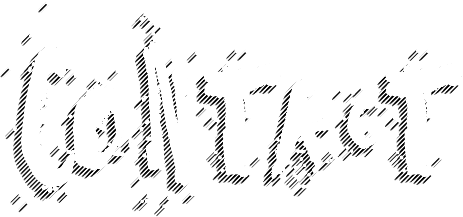
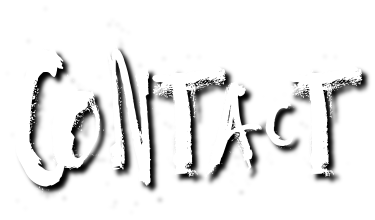
fixed layout on Welcolme page

diff --git a/src/Pages/Welcome.jsx b/src/Pages/Welcome.jsx
@@ -1,43 +1,43 @@
 import React from "react";
 import "../App.css";
 import { Link } from "react-router-dom";
-import useFitText from "use-fit-text";
+import { TypeAnimation } from "react-type-animation";
 
 
 const Welcome = () => {
 
-  const {fontSize, ref} = useFitText();
-
   return (
     <div className="App">
-  
-      <div className="d-flex justify-content-evenly vh-100">    
-          
-        <div className="col-5 mt-2">
-            <div className="d-flex align-items-center justify-content-center vh-100">
+      <div className="d-flex justify-content-evenly vh-100" style={{border:"2px solid red"}}>            
+        <div className="col-6 mt-3">
+            <div className="d-flex align-items-center justify-content-end vh-100 mx-5">
               <img src="static/me.png" className="img-fluid"  alt="pic_of_me" style={{height:"80vh"}}/>
             </div>
         </div>
 
-        <div className="col-7 d-flex flex-column justify-content-evenly mt-2" style={{ fontSize:"7vh"}}>
-          <div className="d-flex justify-content-start " style={{height:"30%", width:"50%"}}>
+        <div className="col-6 d-flex flex-column justify-content-between">
+          <div className="d-flex justify-content-start" >
             <div className="bubble bubble-bottom-left">
-                <p className="text-wrap" ref={ref} style={{ fontSize, height: "100%", width: "auto" }} >
-                  Hi there! Welcome to my Portfolio! I'm Aleksandra/Sasha, Software Engineer with background in math. Here I'm sharing with you my true passion - Web Development! I hope you enjoy
-                  getting to know me...                  
-                </p>             
+              <TypeAnimation                           
+                sequence={[
+                  `Hi there! Welcome to my Portfolio! I'm Aleksandra/Sasha, Software Engineer with background in math. Here I'm sharing with you my true passion - Web Development! I hope you enjoy getting to know me...`
+                ]}
+                cursor={false}
+                repeat={1}  
+                style={{ fontSize:"2.2vh"}}                                 
+                  />
+              </div>
             </div> 
-          </div>
-            
-        <div className="d-flex flex-wrap justify-content-around mx-5 align-self-center" style={{fontFamily:"Vtks Have a Nice Day", fontSize:"6vw", width:"70%"}}>
-          <Link to={"/about"} className="direct">About</Link>
-          <Link to={"/projects"} className="direct">Projects</Link>                  
-          <Link to={"/contact"} className="direct">Contact</Link>                   
-          <Link to={"/resume"} className="direct">Resume</Link>         
+ 
+        <div className="d-flex flex-column justify-content-evenly align-items-center mb-5" >
+          <Link to={"/about"} ><img id="nav"src="static/about.png" alt="contact" /></Link>
+          <Link to={"/projects"} ><img id="nav"src="static/projects.png" alt="contact" /></Link>                  
+          <Link to={"/contact"} ><img id="nav" src="static/contact.png" alt="contact" /></Link>                   
+          <Link to={"/resume"} ><img id="nav"src="static/resume.png" alt="contact" /></Link>         
         </div>
-        </div>
-      </div>      
-    </div>
+      </div>
+    </div>      
+  </div>
   );
 };
 

diff --git a/src/App.css b/src/App.css
@@ -2,35 +2,25 @@
   text-align: center;
   background-image: url(https://popmenucloud.com/smgxvkoz/4079d573-02f3-4f4b-9af2-53b140e96a1b.jpeg);
   background-size: cover;
-  /* width: auto;
-  height: 90vh;
-  margin-top: 0; */
   border-top: 1rem solid black;
-  border-bottom: 1rem solid black;
-  
+  border-bottom: 1rem solid black;  
 }
 
 .bubble {
   position: relative;
-  /* display: flex; */
-  /* font-family: sans-serif; */
-  /* line-height: 5vh; */
-  /* height: 100%; */
-  /* width: auto; */
+  font-family: sans-serif;
+  height: auto;
+  width: 80%;
   background: #fff;
   border-radius: 50px;
-  padding: 5% 2% 0 2%;
-  /* text-align: center; */
-  /* padding-top: 4%; */
+  padding: 2% 2% 2% 2%;
   color: #000;
   border: 4px solid black;
-  /* margin-bottom: 0; */
+  margin-top: 5%;
 }
 
 .bubble-bottom-left:before {
   content: "";
-  /* width: 0px;
-  height: 0px; */
   position: absolute;
   border-left: 24px solid #fff;
   border-right: 12px solid transparent;
@@ -40,23 +30,16 @@
   bottom: -25px;
 }
 
-.direct{
-  text-decoration: none;
-  text-shadow: 6px 6px black;
-  color:white;
-  padding: 10px;
+#nav{
+  width: 70%;
 }
 
-.direct:hover{
-  color:white;
-  text-shadow: 10px 10px black;
+#nav:hover{
+  color:lightgrey;
+  filter: drop-shadow(5px 5px 5px rgb(24, 23, 23));
 }
 
-/* .resume{
-  width: auto;
-  height: 100vh;
 
-} */
 
 
 

diff --git a/public/index.html b/public/index.html
@@ -24,7 +24,9 @@
       work correctly both with client-side routing and a non-root public URL.
       Learn how to configure a non-root public URL by running `npm run build`.
     -->
-    <title>React App</title>
+    <link rel="preconnect" href="https://fonts.googleapis.com">
+<link rel="preconnect" href="https://fonts.gstatic.com" crossorigin>
+<link href="https://fonts.googleapis.com/css2?family=Finger+Paint&family=Freckle+Face&family=Henny+Penny&family=Rock+Salt&display=swap" rel="stylesheet">
     <link href="https://cdn.jsdelivr.net/npm/bootstrap@5.2.1/dist/css/bootstrap.min.css" rel="stylesheet" integrity="sha384-iYQeCzEYFbKjA/T2uDLTpkwGzCiq6soy8tYaI1GyVh/UjpbCx/TYkiZhlZB6+fzT" crossorigin="anonymous">
   </head>
   <body>
